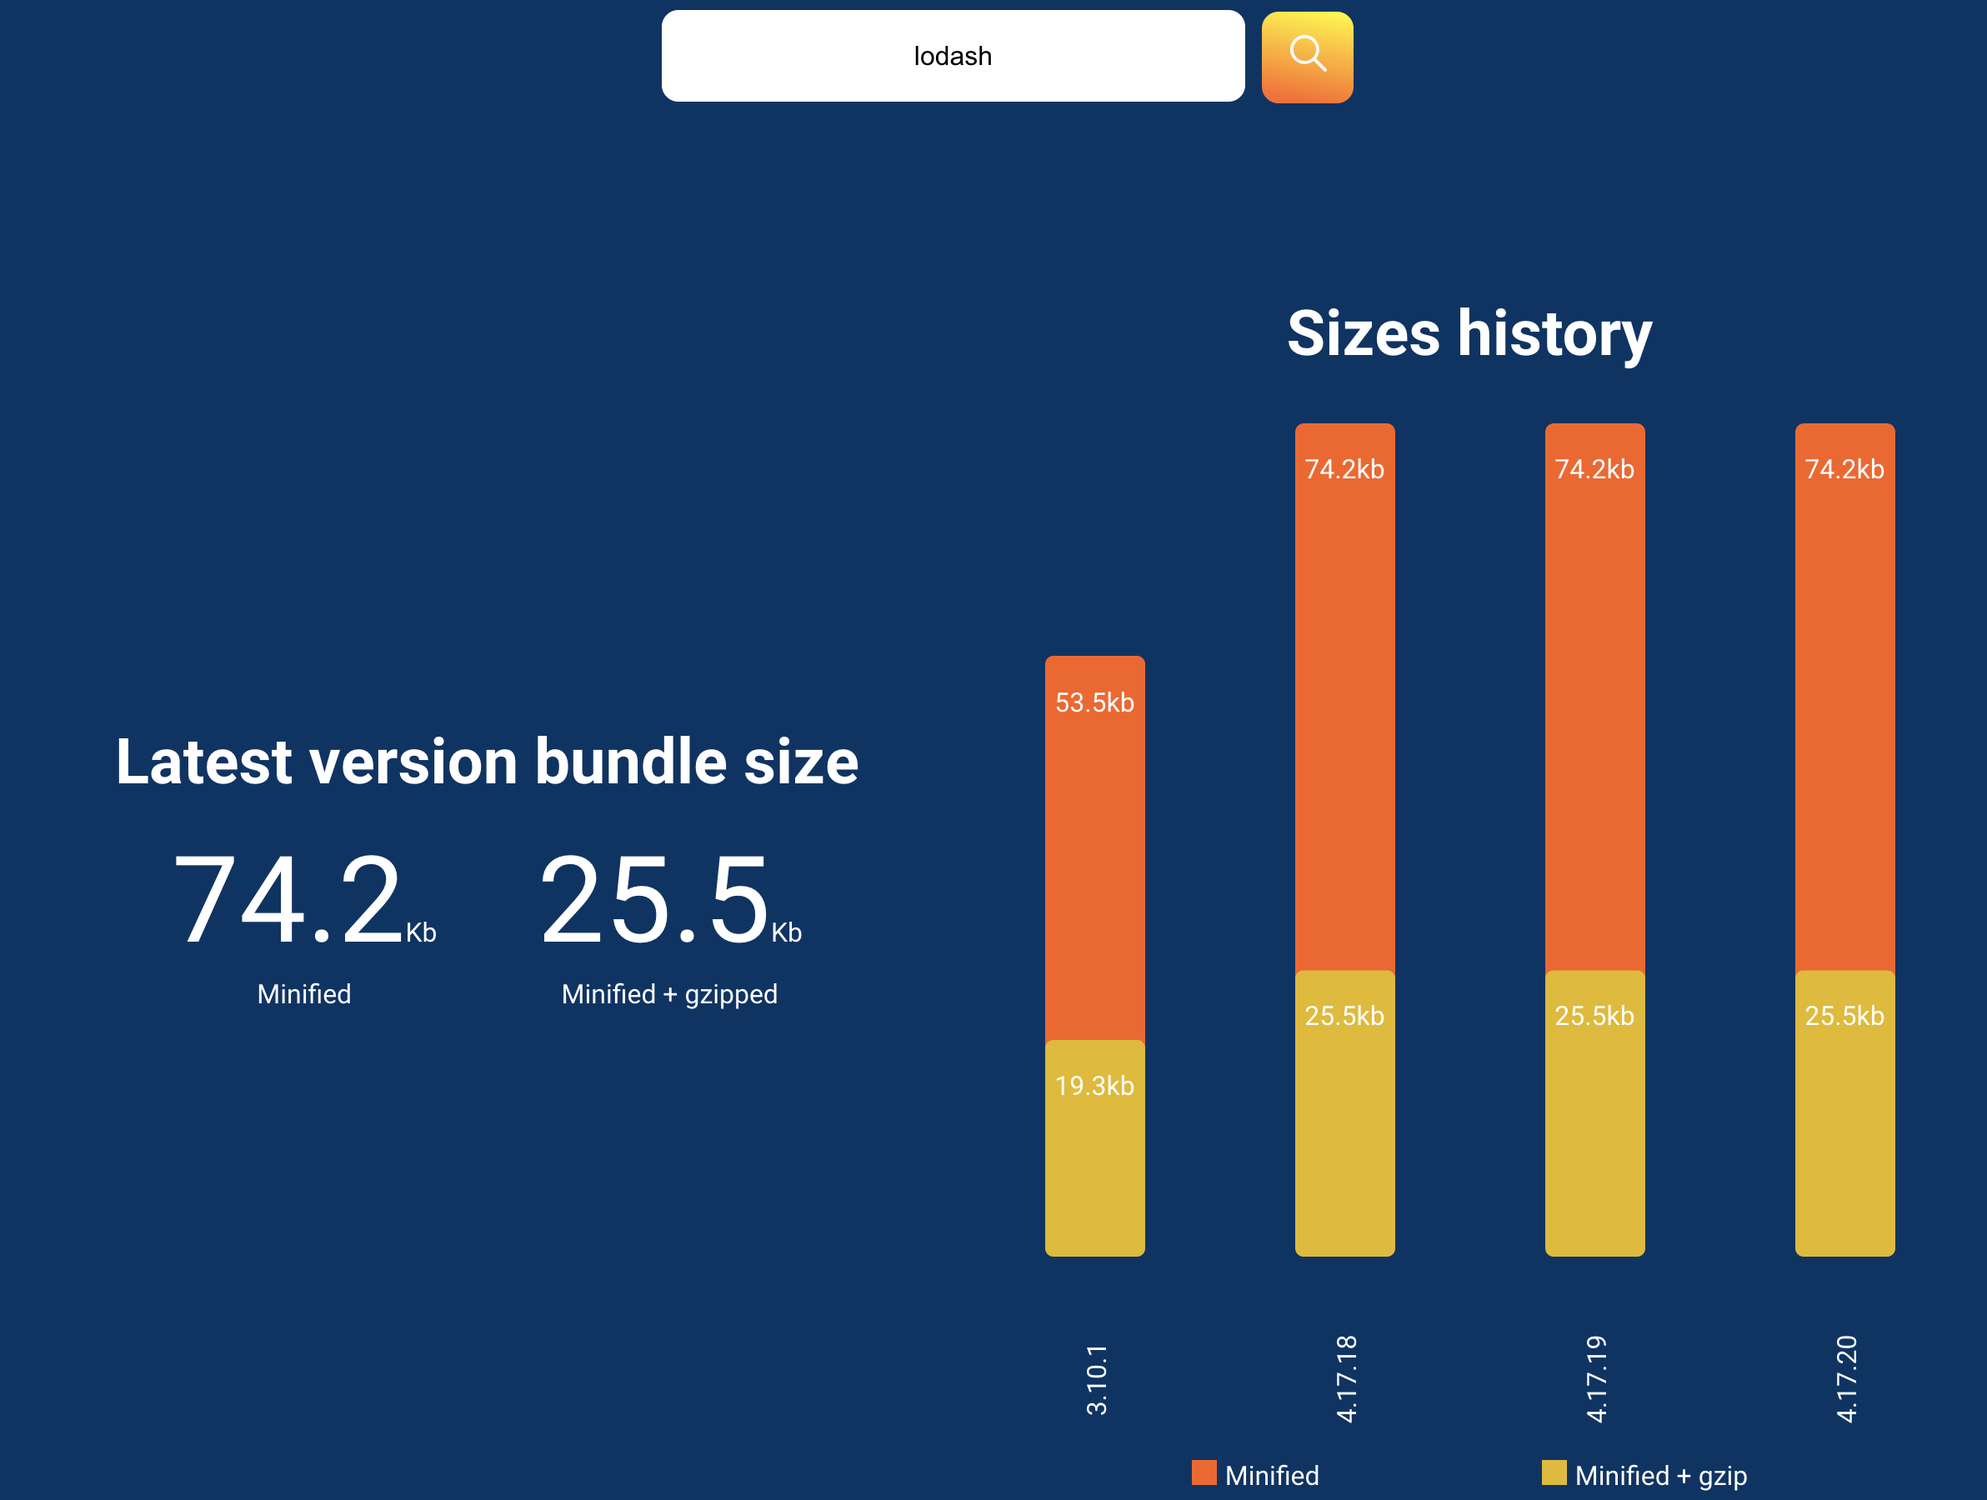
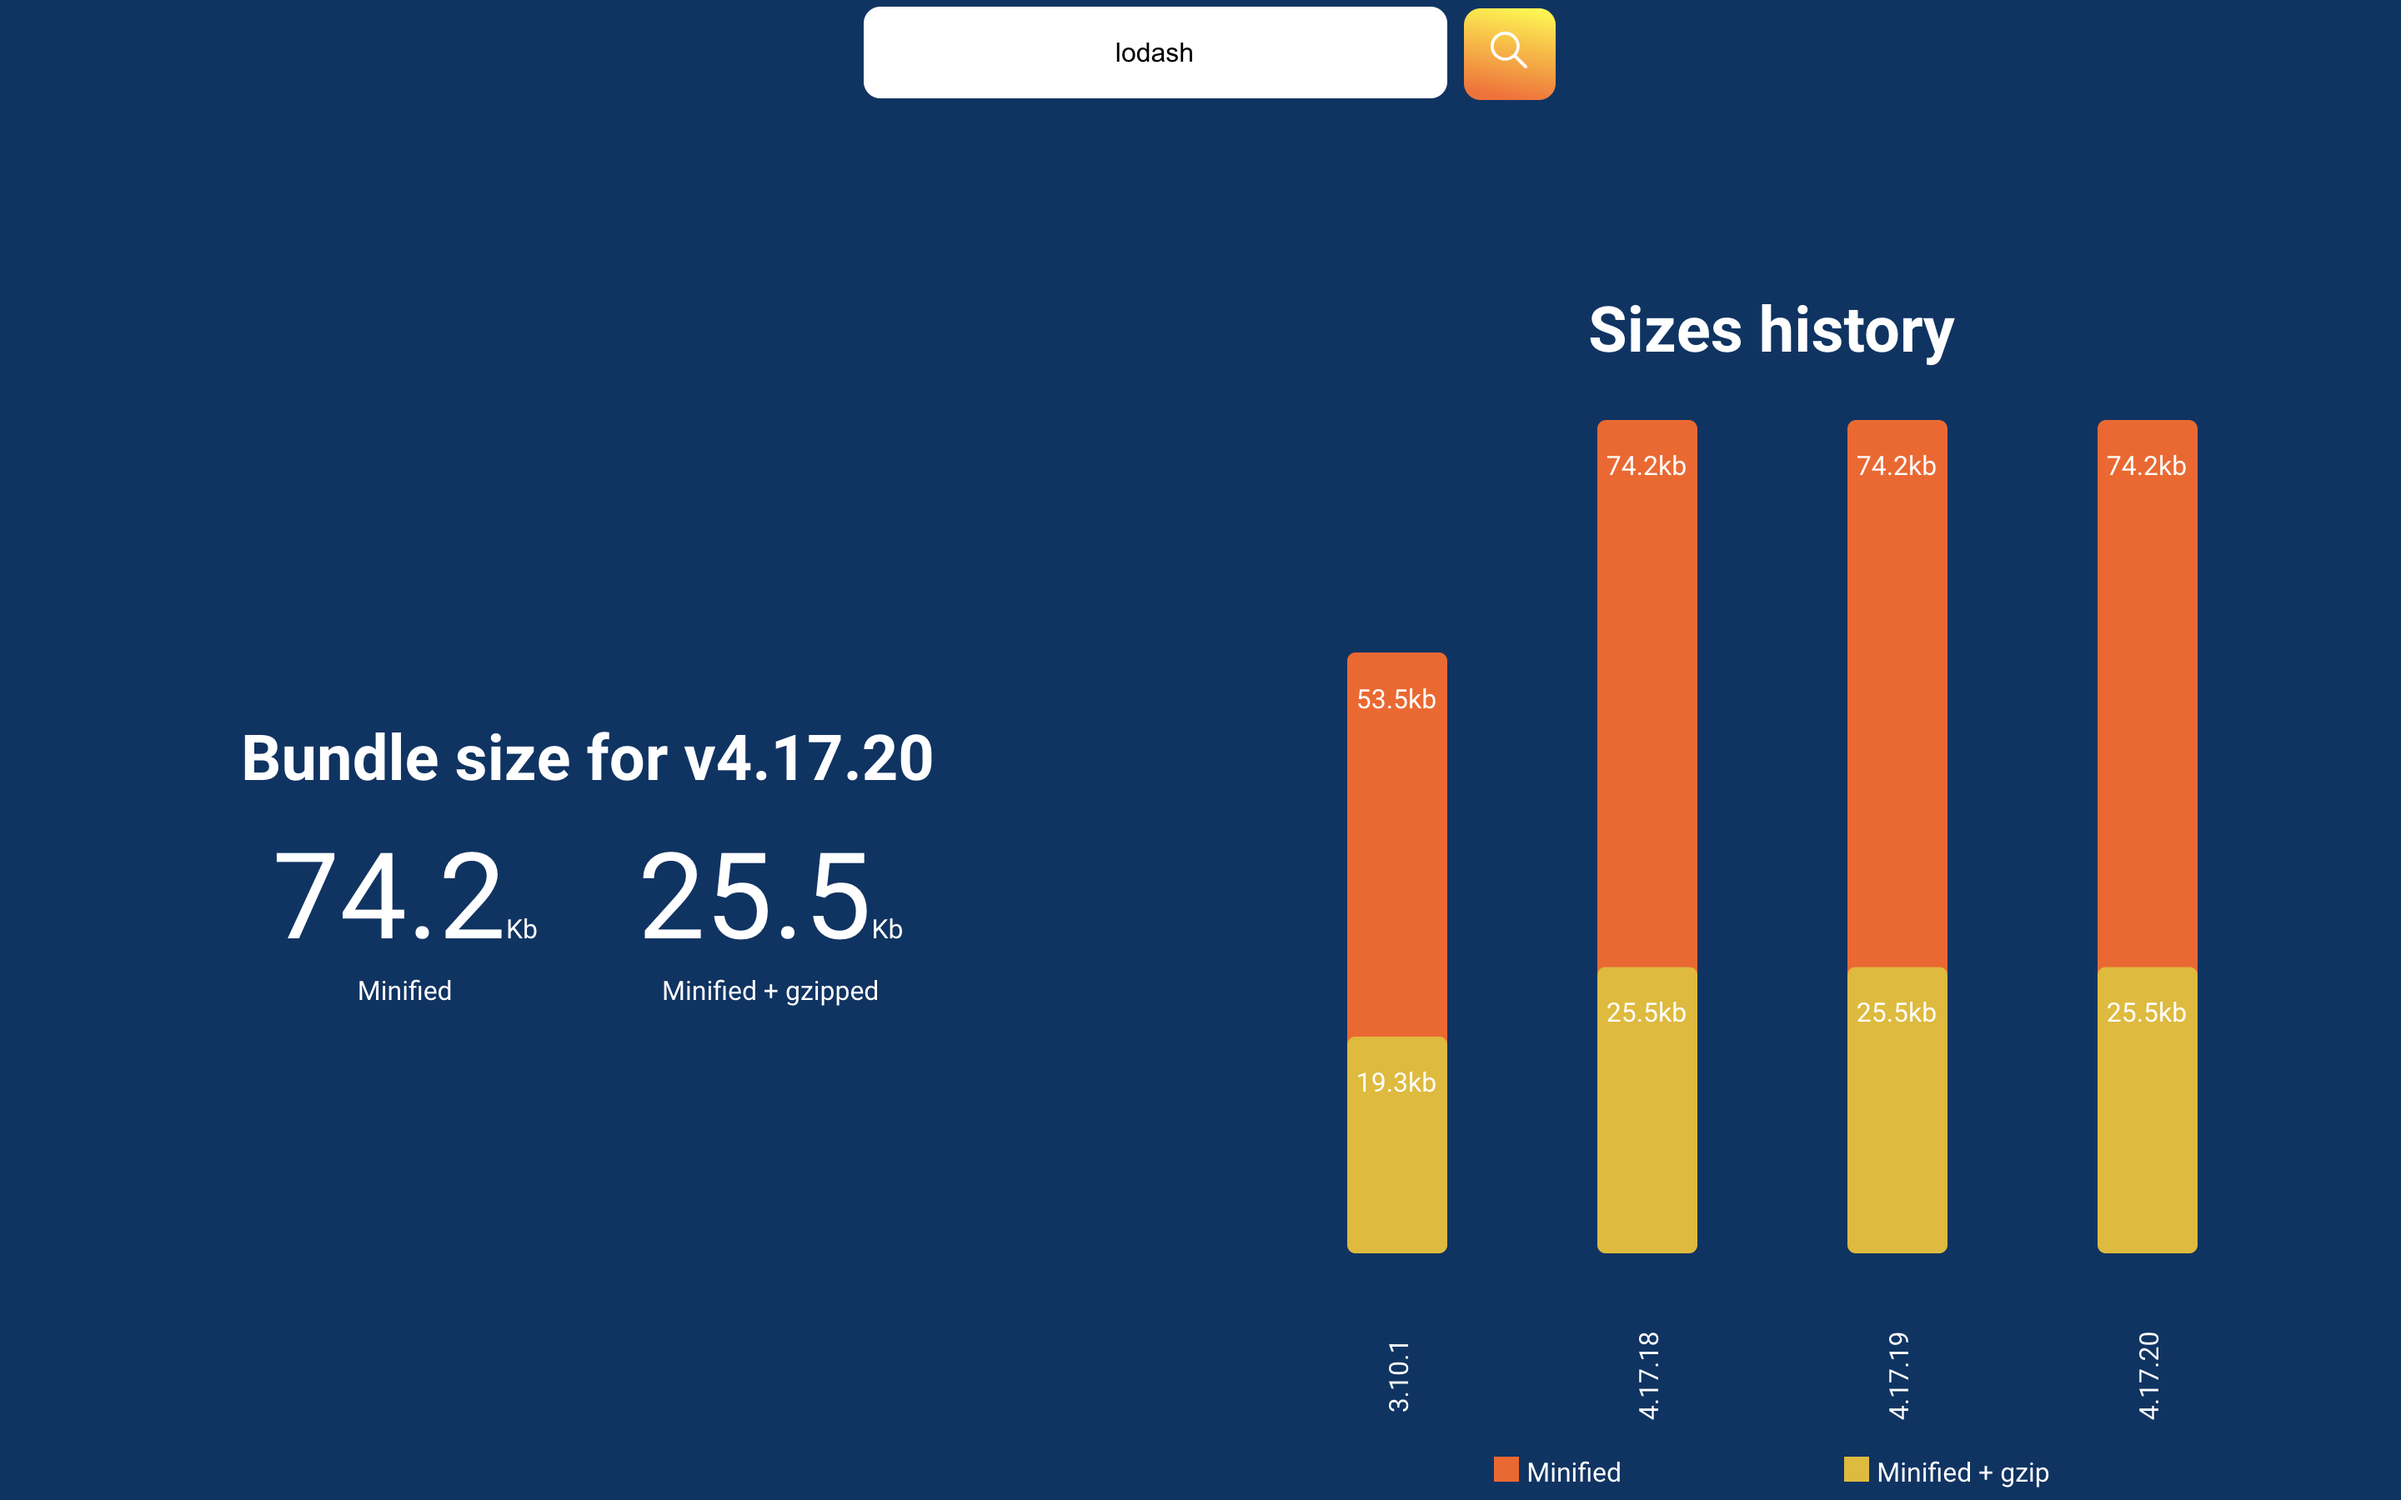
UPDATE read me

diff --git a/client/src/components/package-info/packageInfo.jsx b/client/src/components/package-info/packageInfo.jsx
@@ -3,13 +3,14 @@ import './packageInfo.scss';
 /**
  * Component that display size information about one specific version of a package
  * @param {Object} props props of the component
+ * @param {Object} props.version version of the package
  * @param {Object} props.minifiedSizeInKb size of the package minified in kb
  * @param {Object} props.gzipSizeInKb size of the package in kb
  */
 const PackageInfo = (props) => {
   return (
     <div className='package-info'>
-      <h2> Latest version bundle size </h2>
+      <h2> Bundle size for v{props.version} </h2>
       <div className='minified'>
         <span className='size'>{props.minifiedSizeInKb}</span>
         <span className='unit'>Kb</span>

diff --git a/client/src/components/package-info/packageInfo.test.jsx b/client/src/components/package-info/packageInfo.test.jsx
@@ -3,9 +3,9 @@ import PackageInfo from './packageInfo';
 
 test('title and package sizes information are displayed', () => {
   const renderedPackageInfo = render(
-    <PackageInfo minifiedSizeInKb='20.1' gzipSizeInKb='11.4' />
+    <PackageInfo version='1.2.1' minifiedSizeInKb='20.1' gzipSizeInKb='11.4' />
   );
-  const title = renderedPackageInfo.getByText('Latest version bundle size');
+  const title = renderedPackageInfo.getByText('Bundle size for v1.2.1');
   const minifiedSize = renderedPackageInfo.getByText((content, node) => {
     return node.textContent === '20.1KbMinified';
   });

diff --git a/client/src/views/dashboard/dashboard.jsx b/client/src/views/dashboard/dashboard.jsx
@@ -58,10 +58,7 @@ const Dashboard = () => {
     // Data ready for display state
     dashboardPanel = (
       <div className='stat-container'>
-        <PackageInfo
-          minifiedSizeInKb={sizeStats[0].minifiedSizeInKb}
-          gzipSizeInKb={sizeStats[0].gzipSizeInKb}
-        ></PackageInfo>
+        <PackageInfo {...sizeStats[0]}></PackageInfo>
         <Chart sizeStats={sizeStats}></Chart>
       </div>
     );

diff --git a/readme.md b/readme.md
@@ -5,6 +5,8 @@ It compute the size of the package itself along with all the dependency its drag
 
 Boba bundle also provides information about the size of 3 previous versions of the package and the previous major version.
 
+NOTE: To run the application, go to the readme of the api or client where you will find available commands.
+
 1. [ API Documentation ](#apiDoc)  
    &nbsp;1.1. [ Technical architecture ](#apiTechnicalArchitecture)  
    &nbsp;1.2 [ How does it work ](#howItWorks)  
@@ -109,10 +111,38 @@ The user can execute a new search directly from the dashboard by interacting wit
 
 ### 2.2 Technical architecture
 
-The client of boba bundle is an independent application that is only communication to the API through http calls.
+The client of boba bundle is an independent application that is only communicating to the API through http calls.
+
+It is built using the React framework with the redux store architecture. The redux store was not necessary in such a small and simple application but has been implemented for technical demonstration.
+
+The application follow a basic redux architecture, meaning that when the user do am action the view dispatch the action to the store, the action then do some logic and call a reducer that will return a new state. The view receive the new state and re render.
+
+The structure of the application is as follow:
+
+- api: contains all the helpers to do backend calls
+- components: simple reusable component that are not connected to the store
+- store: container the reducers and actions of the store
+- style: contains the global styling of the application (theming, mixins, CSS rests ...)
+- views: container components connected to the store to retrieve data and dispatch actions
+
+The middleware thunk is used in order to manage asynchronous call to the API. For example when a user search for a package, the async action creator search package is trigger and will dispatch multiple actions such as 'start fetching' to have a loading state or after API responded it can dispatch fetch error or success depending on the result with the corresponding payload.
+
+In order to simplify the reducer's logic the library immer is used. This library let you simply mutate a "draft state" that is then returned, we never have to worry about risking to mutate the state as we never have access to the state object.
+
+The application as well implement react router, whereas redux will be the unique source of truth for data, redux router will be the unique source of truth for URL and navigation. It is used in order to have have the package name as query parameter of the URL on the dashboard. The allows to have a specific URL for a package search and for example being about to share the URL to someone else.
+
+<a name="clientTechnicalArchitecture"></a>
+
+### 2.2 Testing environment
+
+Regarding the testing environnement, the application is unit / integration tested using Jest framework and Testing Library, which provide simple but powerful testing tools.
+
+The request to the API are mocked using fetch-mock library, the store is mocked using redux-mock-store. This allow use to unit test the actions, the reducers, the api helper but as well to run integration testing on component using mocked data. For example in the dashboard view, the state returned by the store is mocked in order to check that the right panel is displayed depending on the state.
+
+Thanks to redux-mock-store and it `mockStore.getActions()`, we are also able to efficiently test async action creator by checking every action that have been dispatched to the store after the async action creator as be executed.
 
 <a name="clientImprovement"></a>
 
 ### 2.3 Improvement list
 
-Note that the contextAPI could have been used in order to simply story the state of the application. Redux has been use only as a technical demonstration.
+- The client application is lacking end to end tests that have been omitted for development time constraint. End to end testing are the most expensive to put in place and maintain but they give the most confidence regarding quality.
